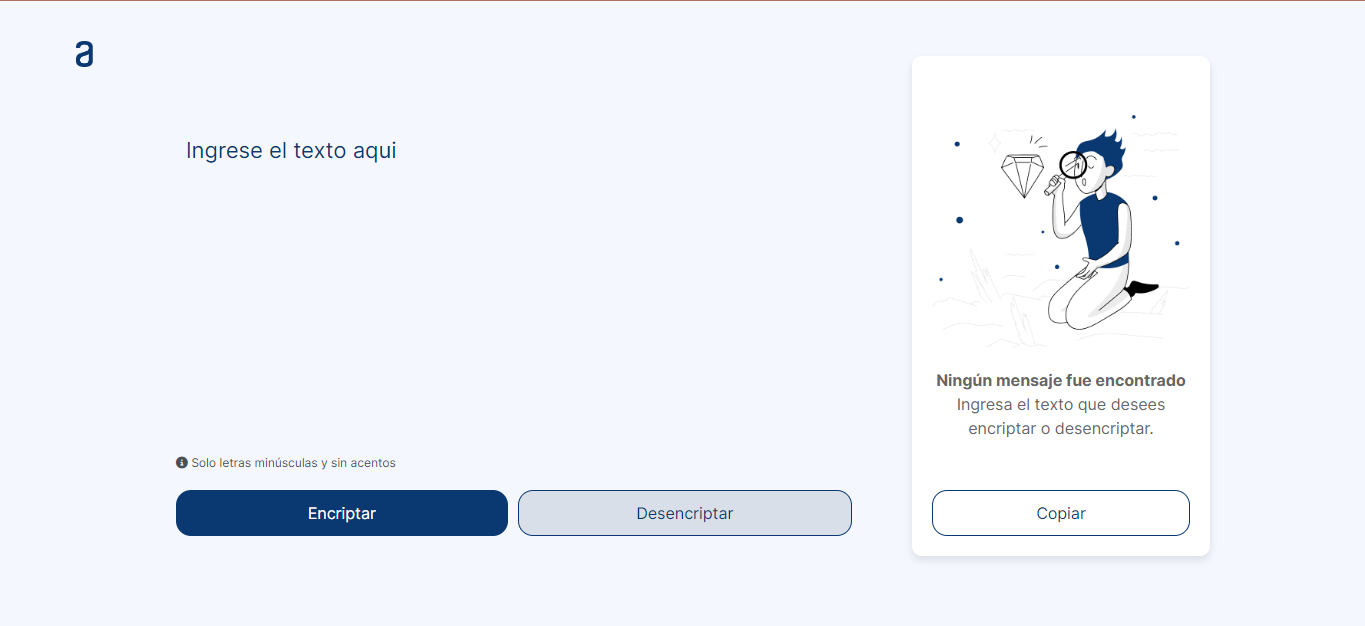
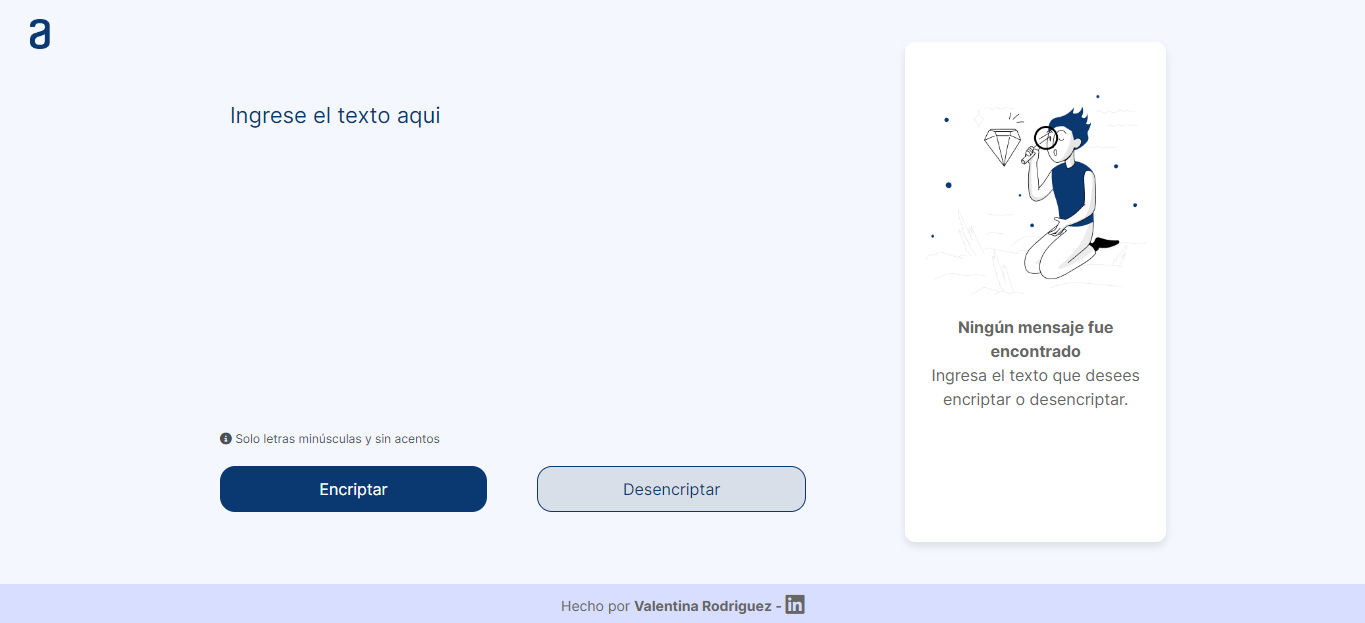
add: mas estilo & arreglo de errores

diff --git a/css/style.css b/css/style.css
@@ -10,7 +10,20 @@ body {
     background-color: #f4f7fe;
     height: 100vh;
     margin: 0;
-    padding: 20px;
+    display: flex;
+    flex-direction: column;
+}
+
+.outer-container {
+    
+}
+
+.inner-container {
+
+}
+
+.header, .footer {
+
 }
 
 ::-webkit-scrollbar {
@@ -29,6 +42,7 @@ body {
     width: 100%;
     max-width: 1200px;
     margin: 0 auto;
+    flex: 1;
 }
 
 span {
@@ -115,7 +129,8 @@ button {
 }
 
 .message-div-img-p-button {
-    margin-top: 35px;
+    /*margin-top: 35px;*/
+    margin-bottom: 30px;
     padding: 20px;
     background-color: #ffffff;
     border-radius: 10px;
@@ -163,7 +178,8 @@ img {
     }
 
     .message-div-img-p-button {
-        margin-top: 35px;
+        /*margin-top: 35px;*/
+        margin-bottom: 30px;
         height: auto;
         padding: 20px;
         background-color: #ffffff;
@@ -180,14 +196,15 @@ img {
         border-radius: 10px;
         width: 90%;
         max-width: 1200px;
+        position: relative;
     }
 
     .container-img-textarea-p-button {
-        gap: 5%;
+        gap: 13%;
         width: 60%;
         display: flex;
         flex-direction: column;
-        margin-right: 20px;
+        margin-right: 29px;
     }
 
     #id-button-copy {
@@ -211,6 +228,7 @@ img {
         background-color: #f4f7fe;
         outline: none;
         padding: 10px;
+        margin-top: 30px;
         box-sizing: border-box;
     }
 
@@ -222,6 +240,10 @@ img {
         grid-template-columns: repeat(auto-fit, minmax(100px, 1fr));
         gap: 20px;
         align-items: center;
+    }
+
+    .buttons{
+        gap: 50px;
     }
 
     .buttons-p button {
@@ -237,7 +259,8 @@ img {
         box-shadow: 0 4px 8px rgba(0, 0, 0, 0.1);
         display: flex;
         flex-direction: column;
-        margin-left: 20px;
+        margin-left: 50px;
+        margin-bottom: 0px;
         overflow: auto;
         padding-top: 20px;
     }
@@ -261,13 +284,74 @@ img {
         margin-top: 0;
     }
 
-    .logo {
-        width: 17px;
-        height: auto;
-        margin-bottom: 31px;
+    .logo-container {
+        position: fixed;
+        top: 20px;
+        left: 20px;
     }
 
-    .logo-container {
-        margin-left: -100px;
+    .logo {
+        width: 20px;
+        height: auto;
+        margin-bottom: 0;
+        margin-left: 10px;
     }
+
+    .outer-container {
+        display: flex;
+        flex-direction: column;
+        width: 100%;
+        height: 100%;
+        justify-content: center;
+    }
+    
+    .inner-container {
+        width: 100%;
+        max-width: 1200px;
+        margin: 0 auto;
+        padding: 20px;
+        box-sizing: border-box;
+    }
+    
+    .header, .footer {
+        width: 100%;
+        text-align: center;
+    }
+}
+
+/* Footer */
+.footer {
+    background-color: rgb(216, 222, 255);
+    text-align: center;
+    padding: 10px 0;
+    margin-top: auto;
+}
+
+.footer p {
+    margin: 0;
+    color: #666;
+    font-size: 14px;
+}
+
+.footer a {
+    font-weight: bold;
+    text-decoration: none;
+    color: #666;
+    font-size: 14px;
+    transition: color 0.2s ease-out;
+}
+
+.footer a:hover {
+    color: #0A3871;
+}
+
+.devicon-linkedin-plain{
+    color: #666;
+    font-size: 20px;
+    vertical-align: bottom;
+    transition: color 0.2s ease-out;
+}
+
+.devicon-linkedin-plain:hover{
+    color: #0A3871;
 }

diff --git a/js/script.js b/js/script.js
@@ -1,15 +1,15 @@
-/*encriptar texto usando patrones específicos*/
+/* encriptar texto usando patrones específicos */
 function encriptar() {
     let texto = document.getElementById("id-textarea-placeholder").value;
     let outputText = document.getElementById("p-null-text");
     let outputImage = document.getElementById("person-image");
 
     let textoCifrado = texto
-    .replace(/e/gi, "enter")
-    .replace(/i/gi, "imes")
-    .replace(/a/gi, "ai")
-    .replace(/o/gi, "ober")
-    .replace(/u/gi, "ufat");
+        .replace(/a/g, "ai")
+        .replace(/e/g, "enter")
+        .replace(/i/g, "imes")
+        .replace(/o/g, "ober")
+        .replace(/u/g, "ufat");
 
     if (texto.length !== 0) {
         outputText.innerHTML = `${textoCifrado}`;
@@ -29,11 +29,11 @@ function desencriptar() {
     let outputImage = document.getElementById("person-image");
 
     let textoDesencriptado = texto
-    .replace(/enter/gi, "e")
-    .replace(/imes/gi, "i")
-    .replace(/ai/gi, "a")
-    .replace(/ober/gi, "o")
-    .replace(/ufat/gi, "u");
+        .replace(/ai/g, "a")
+        .replace(/enter/g, "e")
+        .replace(/imes/g, "i")
+        .replace(/ober/g, "o")
+        .replace(/ufat/g, "u");
 
     if (texto.length !== 0) {
         outputText.innerHTML = `${textoDesencriptado}`;
@@ -48,7 +48,7 @@ function desencriptar() {
 
 /*mostrar u ocultar el botón de copiar según el contenido de p-null-text*/
 function toggleCopyButton() {
-    let outputText = document.getElementById('p-null-text').innerText.trim();
+    let outputText = document.getElementById('p-null-text').innerHTML.trim();
     let copyButton = document.getElementById('id-button-copy');
     
     if (outputText && outputText !== `<span>Ningún mensaje fue encontrado</span><br>Ingresa el texto que desees encriptar o desencriptar.`) {

diff --git a/index.html b/index.html
@@ -4,13 +4,17 @@
     <meta charset="UTF-8">
     <meta name="viewport" content="width=device-width, initial-scale=1.0">
     <script src="https://kit.fontawesome.com/02b5c93e96.js" crossorigin="anonymous"></script>
+    
+    <link rel="stylesheet" type='text/css' href="https://cdn.jsdelivr.net/gh/devicons/devicon@latest/devicon.min.css" />
     <title>Encriptador</title>
     
     <link rel="shortcut icon" href="img/logo.png" />
     <link rel="stylesheet" href="css/style.css">
 </head>
 <body>
-    <div class="container">
+    <div class="outer-container">
+        <div class="inner-container">
+        <div class="container">
         <div class="container-img-textarea-p-button">
 
             <!--LOGO-->
@@ -26,7 +30,7 @@
             <!--BUTTONS AND WARNING-->
             <div class="buttons-p">
             <p class="p-i-warning-message">
-                <i class="fa-solid fa-circle-info"></i>
+                <i class="fas fa-info-circle"></i>
                 Solo letras minúsculas y sin acentos
             </p>
             <div class="buttons">
@@ -44,7 +48,14 @@
             </div>
             <button id="id-button-copy" style="display: none;">Copiar</button>
         </div>
+        </div>
+        </div>
     </div>
+
+    <!--FOOTER-->
+    <footer class="footer">
+        <p>Hecho por <a href="https://github.com/valeen-rodriguez" target="_blank">Valentina Rodriguez</a><span> - <a href="https://www.linkedin.com/in/valentina--rodriguez/" target="_blank"> <i class="devicon-linkedin-plain"></i></a></span></p>
+    </footer>
 
     <!--SCRIPT JS-->
     <script src="js/script.js"></script>

diff --git a/README.md b/README.md
@@ -1,8 +1,20 @@
 # Challenge Encriptador de Texto - Alura ONE
 
 <p align="center">
-     <img width="800" height="400" src="img/web_pagina.png">
+     <a href="https://valeen-rodriguez.github.io/challenge-encriptador-de-texto/"><img width="800" height="400" src="img/web_pagina.png"></a>
 </p>
+
+<div align="center">
+
+[Demo | Github Pages](https://valeen-rodriguez.github.io/challenge-encriptador-de-texto/)
+     
+</div>
+
+---
+
+## 🚀 Descripción
+
+Challenge de Alura que se basa en la encriptación de textos, asi poder intercambiar mensajes secretos con otras personas y que sepan el secreto de la encriptación utilizada.
 
 ---
 
@@ -50,12 +62,4 @@ gaitober" => "gato"
 
 ### Extras:
 
-- Un botón que copie el texto encriptado/desencriptado para la sección de transferencia, o sea que tenga la misma funcionalidad del ctrl+C o de la opción "copiar" del menú de las aplicaciones.
-
----
-
-## 📖 Deploy
-
-Se puede acceder a la página desde celular, tablet o computadora apretando [aquí](https://valeen-rodriguez.github.io/challenge-encriptador-de-texto/)
-
----
+- Un botón que copie el texto encriptado/desencriptado para la sección de transferencia, o sea que tenga la misma funcionalidad del ` ctrl+C ` o de la opción "copiar" del menú de las aplicaciones.
